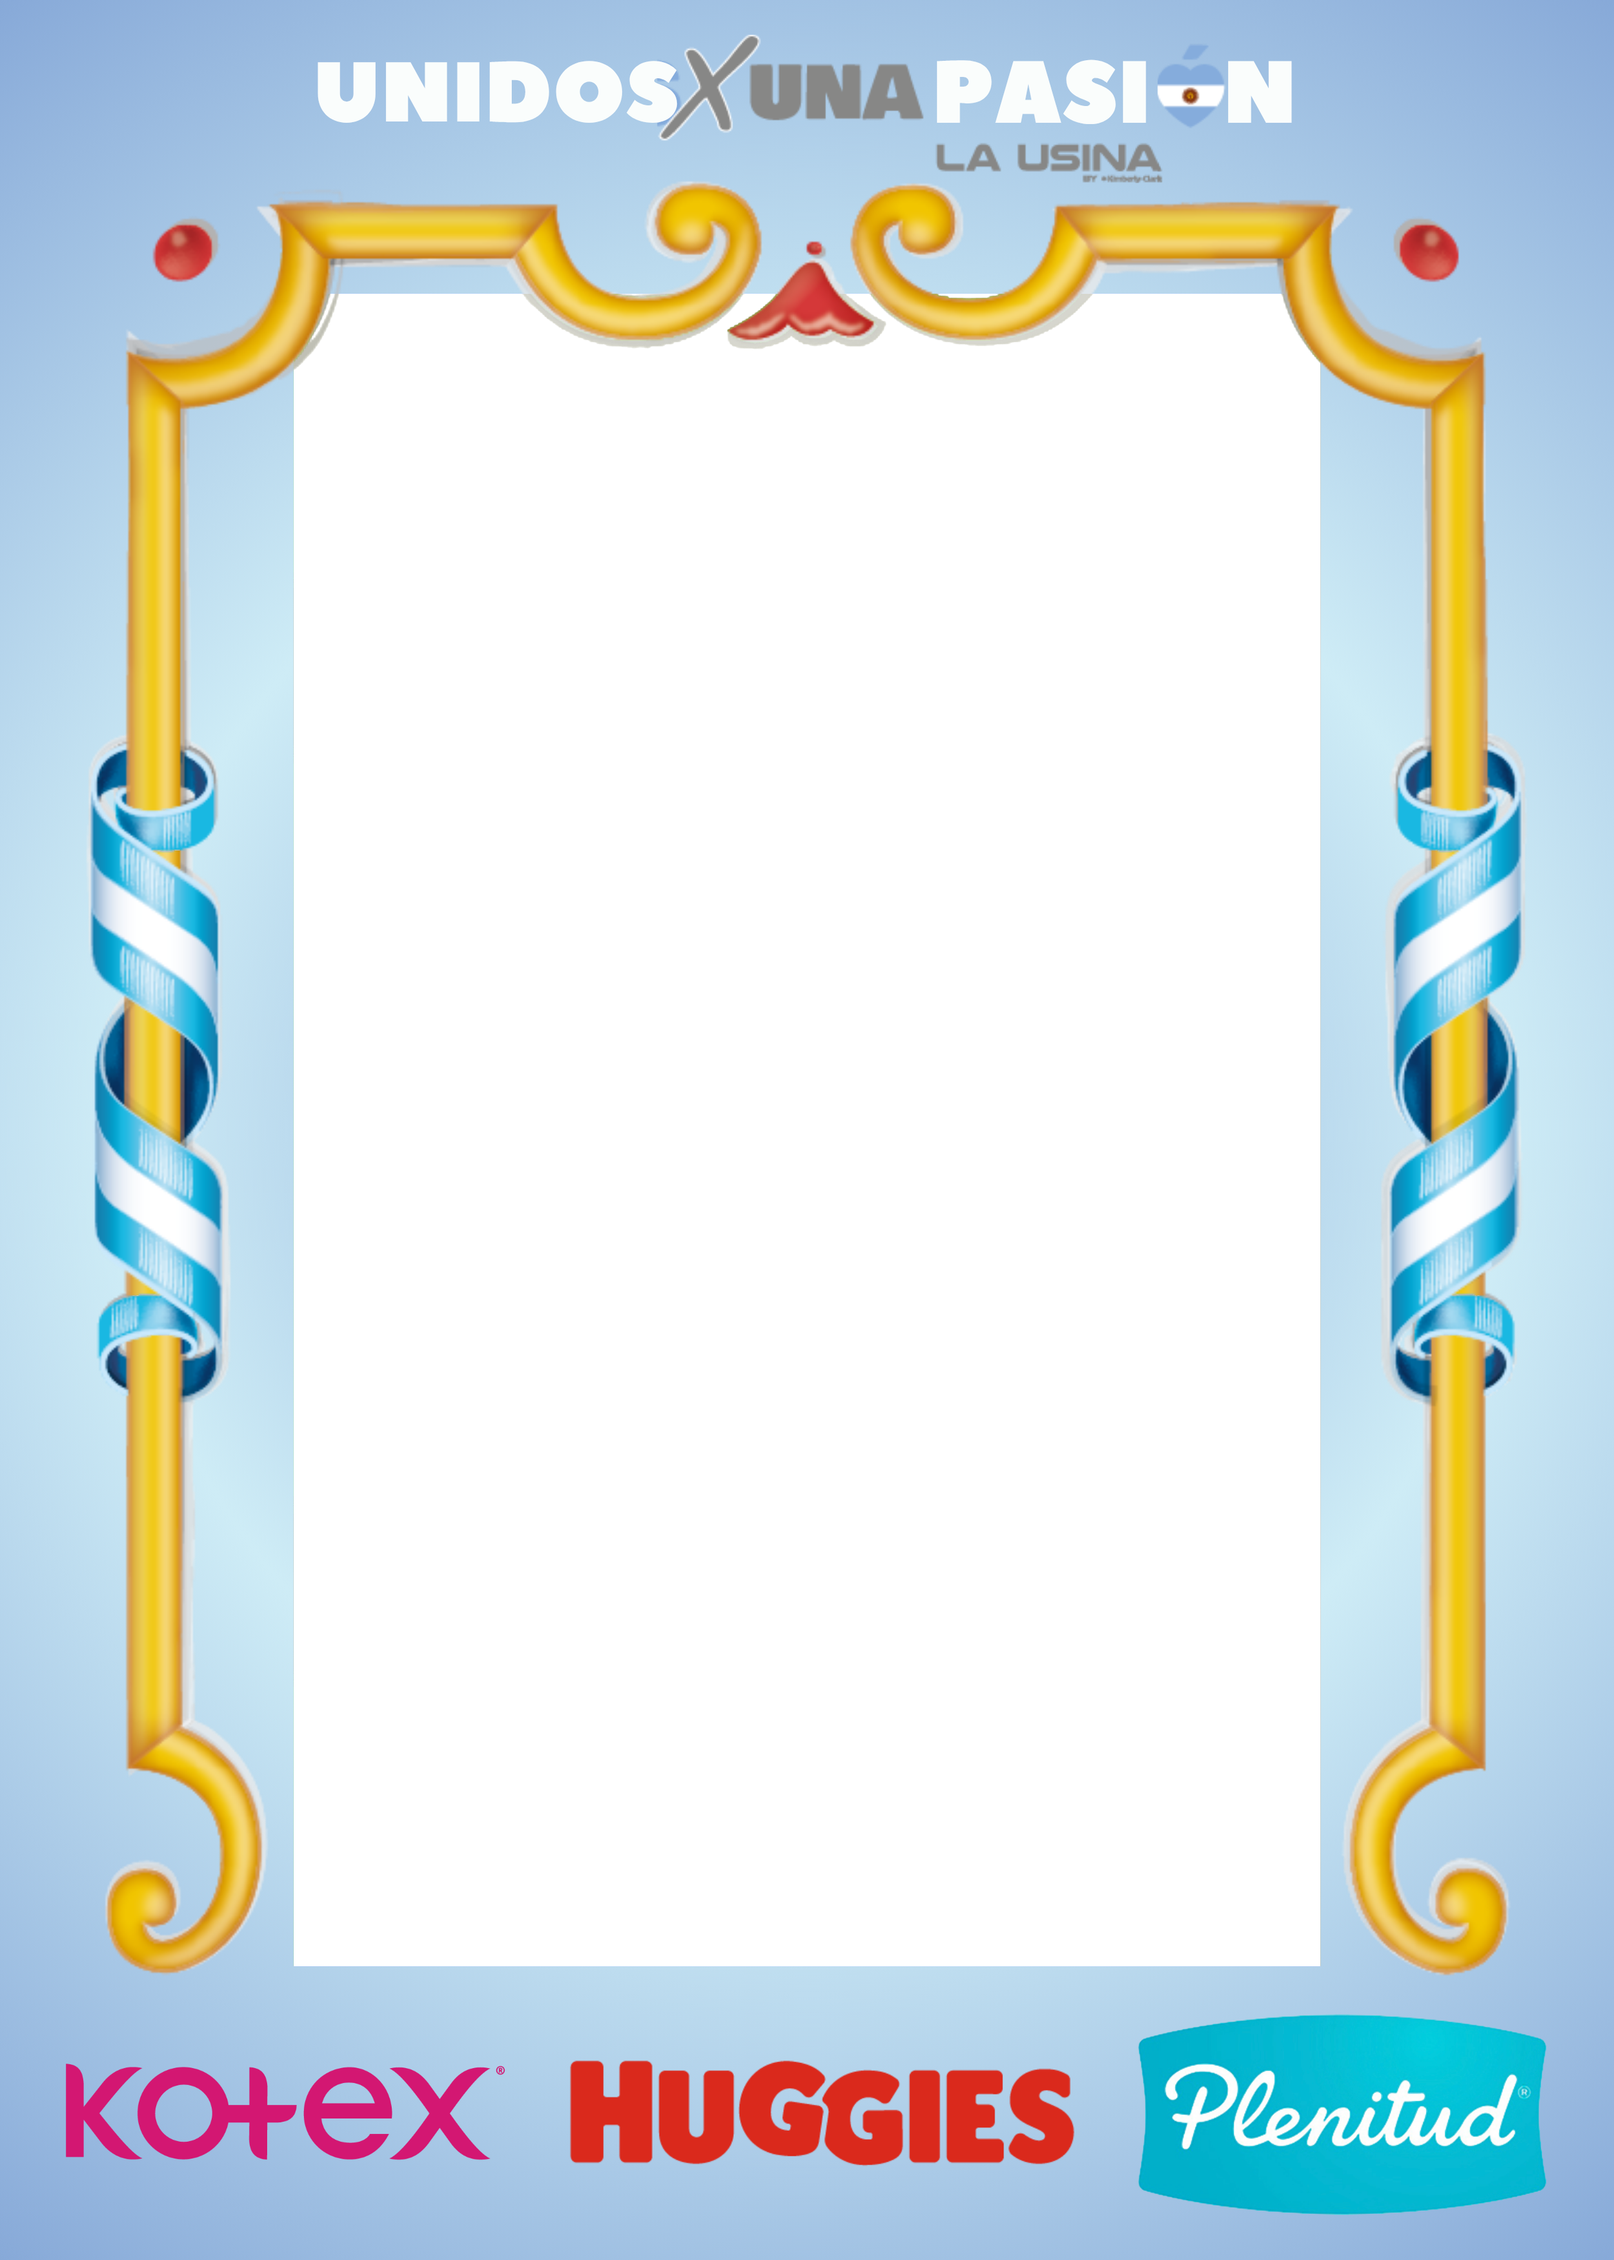
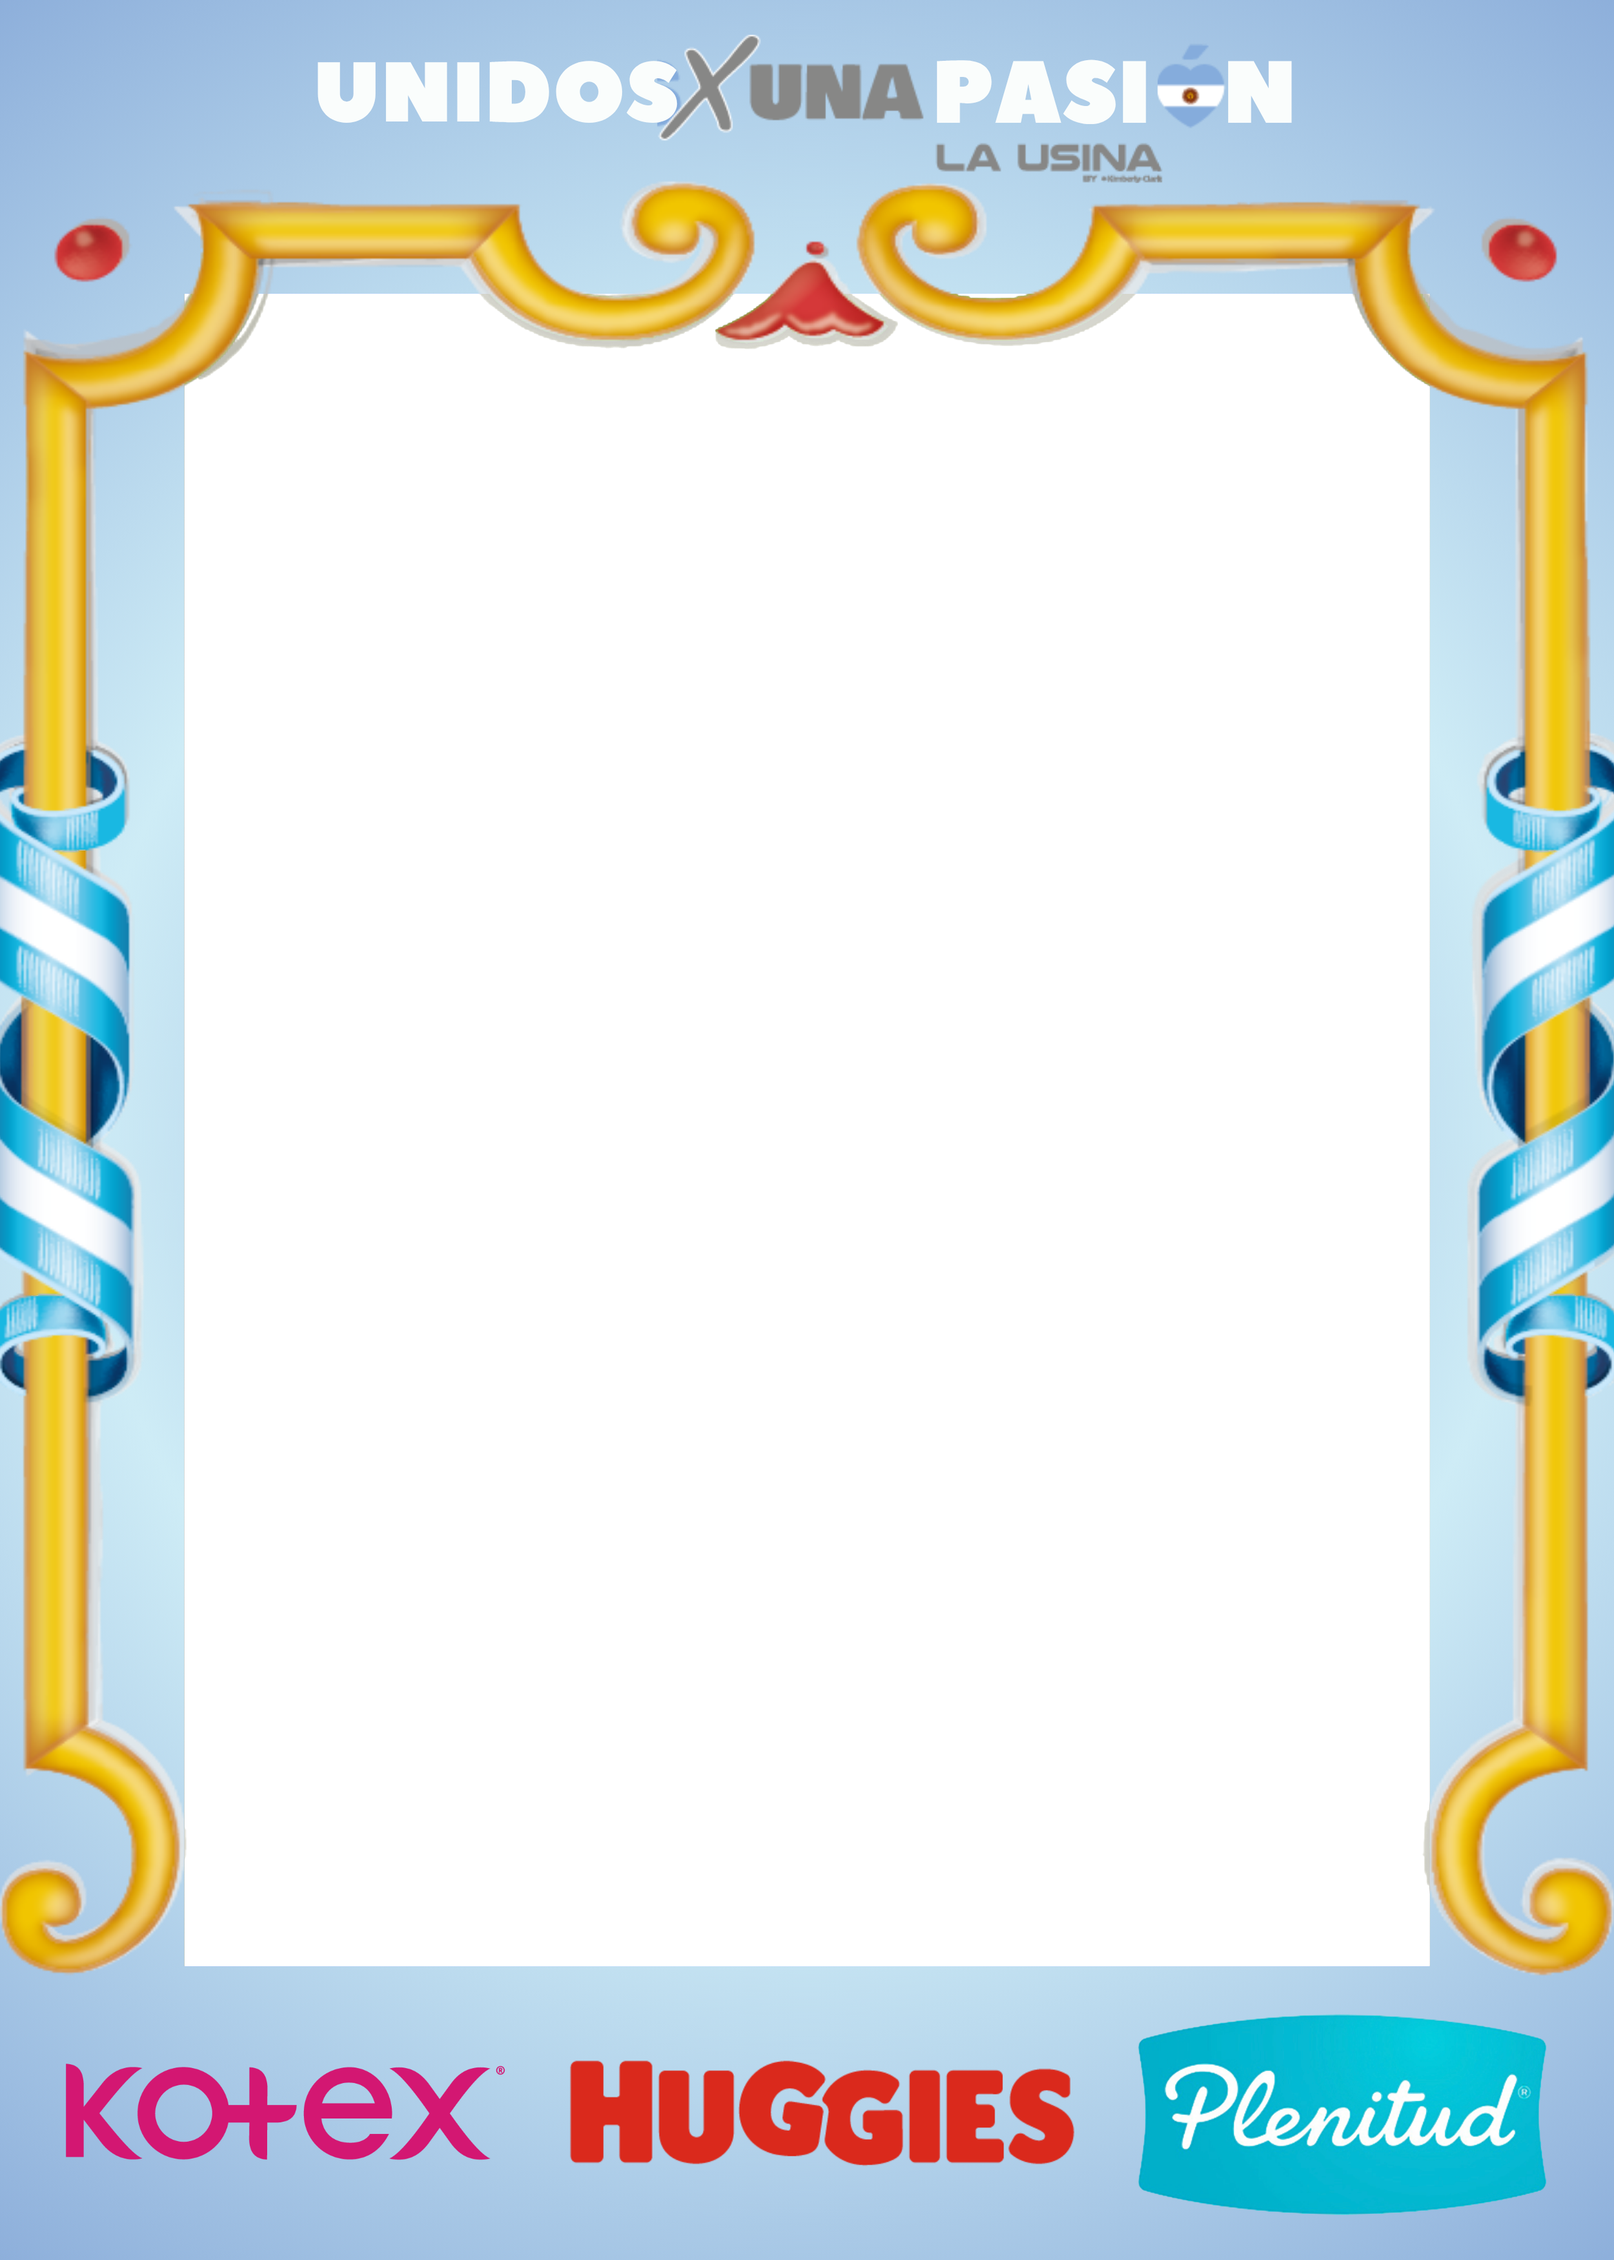
Frames with a wider photo window (sides 80px thinner), from a Canva copy
Top (title) and bottom (brand logos) unchanged. Frame 2's ribbon had a seam
previously hidden by the white outline; procesar_marcos.py fills it along the
ribbon's slope and keys out the green window.

Changed region(s): [[0.78, 0.0623, 1.0, 0.872], [0.0, 0.0623, 0.2184, 0.872], [0.2808, 0.0623, 0.7176, 0.1557]]

diff --git a/plantillas/procesar_marcos.py b/plantillas/procesar_marcos.py
@@ -1,0 +1,131 @@
+"""
+Convierte los PNG exportados de Canva (hueco de la foto en verde #7ED957) en marcos para la app:
+- rellena cortes verdes angostos dentro de adornos (p. ej. la cinta del marco 2), continuando los colores,
+- vuelve transparente el verde con bordes suaves y sin halo,
+- deja el resultado en 2500×3500.
+
+Uso: python3 procesar_marcos.py canva_1.png canva_2.png canva_3.png  -> Fondo_1.png, Fondo_2.png, Fondo_3.png
+"""
+import sys
+from PIL import Image, ImageChops
+
+SIZE = (2500, 3500)
+MAX_GAP = 60  # px: tramos verdes más angostos que esto, con adorno a ambos lados, se rellenan
+BLEND = 30    # px de cada lado del corte que se rehacen para que la transición sea suave
+MIN_ROWS = 10 # zonas más bajas que esto son bordes finos del dibujo, no cortes: se dejan como están
+
+# Cortes a rellenar, por marco: (x0, y0, x1, y1) en píxeles de 2500×3500. Solo ahí se busca: en el resto
+# del diseño los huecos verdes angostos son a propósito (la foto se ve entre adornos).
+# Marco 2: la cinta de arriba tiene un corte que antes tapaba el filete blanco.
+GAP_AREAS = {2: [(1950, 300, 2300, 1000)]}
+
+
+def is_green(p, key):
+    r, g, b = p[:3]
+    kg = key[1] - max(key[0], key[2])
+    return g - max(r, b) > 0.5 * kg
+
+
+def find_gaps(im, key):
+    """Tramos verdes angostos con adorno a ambos lados: {y: (start, end)} agrupados por zona."""
+    px = im.load()
+    w, h = im.size
+    segments = []
+    for y in range(h):
+        x = 0
+        while x < w:
+            if not is_green(px[x, y], key):
+                x += 1
+                continue
+            start = x
+            while x < w and is_green(px[x, y], key):
+                x += 1
+            end = x  # [start, end) es verde
+            if start >= 3 and end + 2 < w and end - start <= MAX_GAP \
+                    and not is_green(px[start - 3, y], key) and not is_green(px[end + 2, y], key):
+                segments.append((y, start, end))
+    # agrupar tramos de filas vecinas que se superponen en x
+    regions = []
+    for y, s0, e0 in segments:
+        for r in regions:
+            ly, ls, le = r[-1]
+            if y - ly <= 2 and s0 < le + 4 and e0 > ls - 4:
+                r.append((y, s0, e0))
+                break
+        else:
+            regions.append([(y, s0, e0)])
+    return regions
+
+
+def fill_narrow_gaps(im, key, areas):
+    """
+    Rellena cada zona siguiendo la inclinación del dibujo: busca el desplazamiento vertical que mejor
+    alinea la columna de la izquierda del corte con la de la derecha, e interpola a lo largo de esa diagonal.
+    """
+    px = im.load()
+    h = im.size[1]
+    regions = find_gaps(im, key)
+    def inside(r):
+        y, s0, e0 = r[len(r) // 2]
+        return any(x0 <= s0 and e0 <= x1 and y0 <= y <= y1 for x0, y0, x1, y1 in areas)
+
+    regions = [r for r in regions if r[-1][0] - r[0][0] + 1 >= MIN_ROWS and inside(r)]
+    for region in regions:
+        xl = max(0, min(s for _, s, _ in region) - 3 - BLEND)
+        xr = min(im.size[0] - 1, max(e for _, _, e in region) + 2 + BLEND)
+        ys = [y for y, _, _ in region]
+        y0, y1 = min(ys), max(ys)
+
+        def col(x, y):
+            return px[x, max(0, min(h - 1, y))]
+
+        best_d, best_err = 0, None
+        for d in range(-120, 121, 2):
+            err = 0
+            for y in range(y0, y1 + 1, 2):
+                a, b = col(xl, y), col(xr, y + d)
+                err += sum(abs(a[c] - b[c]) for c in range(3))
+            if best_err is None or err < best_err:
+                best_d, best_err = d, err
+
+        span = xr - xl
+        # guardar las columnas de referencia antes de pisar nada
+        ref_l = {y: col(xl, y) for y in range(0, h)}
+        ref_r = {y: col(xr, y) for y in range(0, h)}
+
+        def col(x, y):  # noqa: F811 - desde acá se leen las columnas originales
+            y = max(0, min(h - 1, y))
+            return ref_l[y] if x == xl else ref_r[y]
+
+        print(f"  zona x={xl}..{xr} y={y0}..{y1} desplazamiento={best_d}")
+        for y, s0, e0 in region:
+            for x in range(xl + 1, xr):
+                t = (x - xl) / span
+                left = col(xl, round(y - t * best_d))
+                right = col(xr, round(y + (1 - t) * best_d))
+                if is_green(left, key) or is_green(right, key):
+                    continue
+                px[x, y] = tuple(round(left[c] * (1 - t) + right[c] * t) for c in range(3))
+    return len(regions)
+
+
+def key_out(im, key):
+    kg = key[1] - max(key[0], key[2])
+    R, G, B = im.split()
+    max_rb = ImageChops.lighter(R, B)
+    green = ImageChops.subtract(G, max_rb)
+    lo, span = 0.15 * kg, 0.7 * kg
+    alpha = green.point(lambda v: int(255 * max(0, min(1, 1 - (v - lo) / span))))
+    semi = alpha.point(lambda v: 255 if v < 255 else 0)
+    G2 = Image.composite(ImageChops.darker(G, max_rb), G, semi)  # quitar el verde de los bordes
+    return Image.merge("RGBA", (R, G2, B, alpha))
+
+
+for n, path in enumerate(sys.argv[1:], start=1):
+    im = Image.open(path).convert("RGB").resize(SIZE, Image.LANCZOS)
+    key = im.getpixel((SIZE[0] // 2, SIZE[1] // 2))  # el centro siempre es el hueco
+    rows = fill_narrow_gaps(im, key, GAP_AREAS.get(n, [])) if n in GAP_AREAS else 0
+    out = key_out(im, key)
+    out.save(f"Fondo_{n}.png", optimize=True)
+    transparent = out.getchannel("A").histogram()[0] / (SIZE[0] * SIZE[1])
+    print(f"Fondo_{n}.png: clave {key}, zonas de cortes rellenadas {rows}, transparente {transparent:.1%}")

diff --git a/plantillas/COMO_HACER_LOS_MARCOS.md b/plantillas/COMO_HACER_LOS_MARCOS.md
@@ -21,3 +21,12 @@
 - El PNG tiene que medir **2500 × 3500**.
 - Al abrirlo, la ventana de la foto tiene que verse como un **damero** (transparente), no blanca.
 - Usá los logos originales en alta (PNG grande o SVG), no capturas de pantalla.
+
+## Marcos actuales (desde Canva)
+Los 3 marcos de la app salen del diseño de Canva **"back_600"** (la copia con el hueco ensanchado,
+ID `DAHWr480sps`; el original `DAHBzq9T8D4` quedó sin tocar). El hueco de la foto es un rectángulo
+verde `#7ED957`. Para regenerarlos después de cambiar algo en Canva:
+1. Exportar las 3 páginas en PNG a 2500 × 3500 (sin fondo transparente).
+2. `python3 procesar_marcos.py pagina1.png pagina2.png pagina3.png` → genera `Fondo_1/2/3.png`
+   (vuelve transparente el verde con bordes suaves y rellena el corte conocido de la cinta del marco 2).
+3. Copiarlos a `src/KCMundial.App/assets/` (o a `C:\KCMundial2\assets\`).
